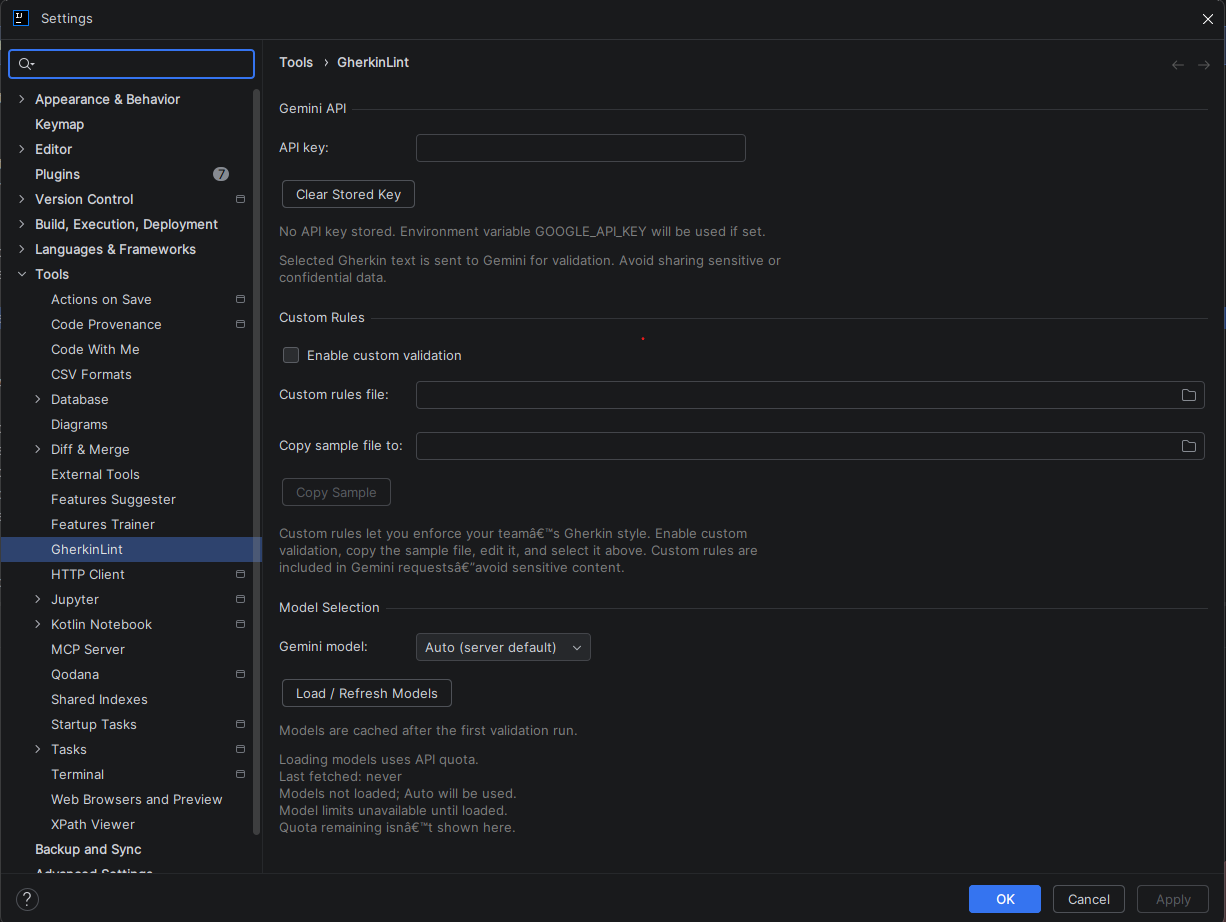
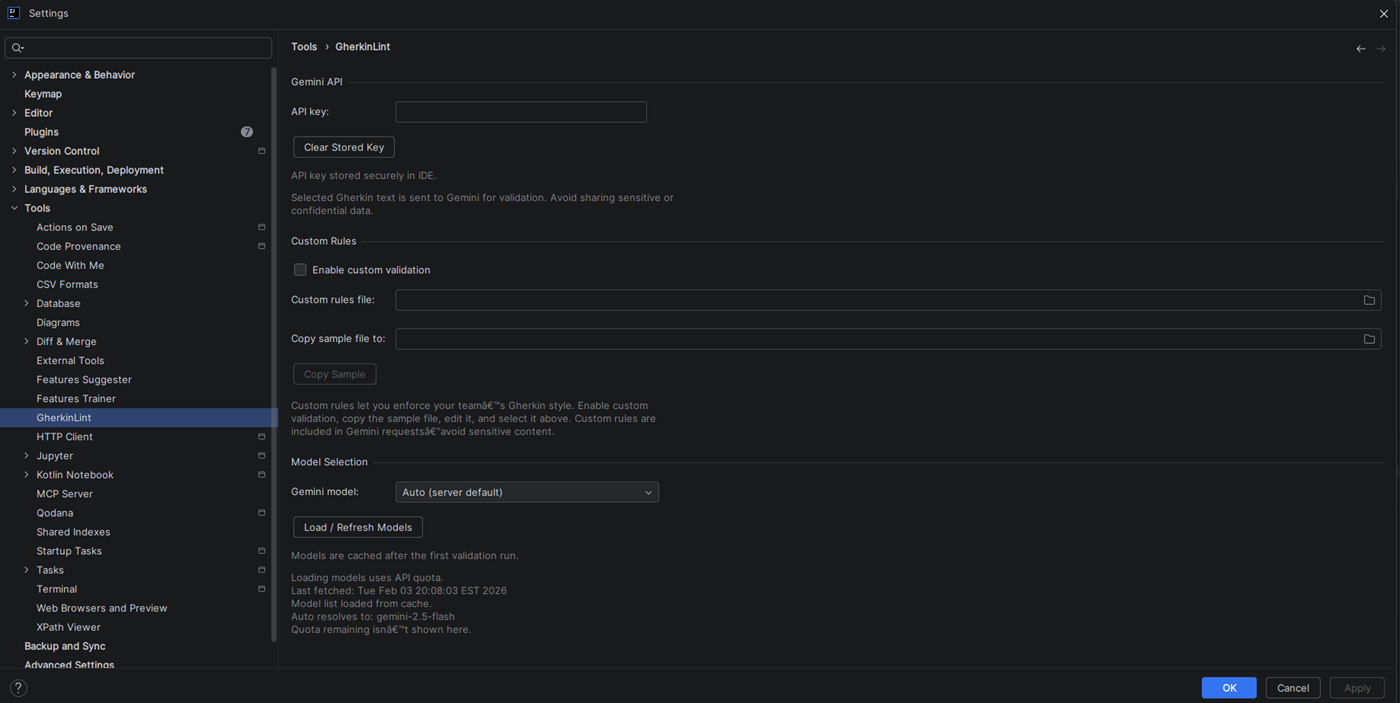
docs(readme): polish marketplace copy and usage guidance
- Expand feature keywords for search (BDD/Gherkin/Cucumber/JBehave/Gemini)
  - Clarify requirements and quick‑start steps
  - Add API key precedence, model cost, custom rules guidance, and privacy note
  - Add Gemini API key link and update support to refer to vendor contact
  - Move dev/contrib/license sections outside plugin description block

diff --git a/README.md b/README.md
@@ -1,7 +1,7 @@
 <!-- Plugin description -->
 # GherkinLint
 
-Write consistent, review-ready BDD Gherkin with a single click. GherkinLint validates selected text against clear, team-aligned rules and returns targeted suggestions so scenarios stay uniform across authors.
+Write consistent, review‑ready BDD Gherkin with a single click. GherkinLint validates selected steps in feature files and story files (Cucumber, JBehave), flags syntax/style issues, and suggests fixes so scenarios stay uniform across teams. Powered by Gemini AI for fast, reliable Gherkin linting and BDD validation.
 
 ## Screenshots
 ![Selection](docs/assets/selection.png)
@@ -9,36 +9,51 @@ Write consistent, review-ready BDD Gherkin with a single click. GherkinLint vali
 ![Settings](docs/assets/settings.png)
 
 ## Key Features
-- Validate selected Gherkin (Scenario/Given/When/Then/And/But) inside the editor
-- Consistent style checks with actionable corrections
-- Optional custom rules file for team-specific guidance
+- In‑editor validation for Gherkin steps (Scenario/Given/When/Then/And/But) in feature/story files
+- BDD style linting for Cucumber and JBehave with actionable fixes
+- Gemini AI–powered suggestions for consistency and clarity
+- Optional custom rules file for team standards
 - Gemini model selection with cached model list to reduce API calls
 - Results shown in a dedicated tool window
 
 ## Requirements
 - A Gemini API key
-- IntelliJ-based IDE (2025.3+ recommended)
+- Internet access (Gemini API calls)
+- IntelliJ-based IDE (2022.3+; 2025.3 recommended)
 
 ## Quick Start
 1. Open **Settings | Tools | GherkinLint** and add your Gemini API key.
 2. (Optional) Load models and choose a preferred model.
-3. Select Gherkin text in a feature/story file.
-4. Run **Validate Gherkin** from the editor action menu.
+3. Select Gherkin text in a `.feature` or `.story` file.
+4. Right‑click → **Validate Gherkin**.
+5. View results in the **GherkinLint** tool window.
 
 ## API Key Handling
 - Stored securely in the IDE Password Safe.
 - If not set, the plugin can read `GOOGLE_API_KEY` from your environment.
+- If both are set, the IDE‑stored key is used first.
 - You can clear the stored key at any time from settings.
 
+## Get a Gemini API key
+Create a free key in Google AI Studio:
+```
+https://aistudio.google.com/api-keys
+```
+
 ## Model Usage and Cost
-- Listing models and validation calls consume Gemini API quota.
+- Listing models and each validation call consume Gemini API quota.
 - The model list is cached; use **Load / Refresh Models** only when needed.
+- Re‑running validation consumes additional quota.
 
 ## Custom Rules
-Enable **Custom rules** and provide a JSON file to apply your team’s validation standards. If enabled without a file, the plugin will warn and fall back to default rules.
+Enable **Custom rules** and provide a JSON file to apply your team’s validation standards. Use **Copy Sample** to generate a template, edit it, and select it above. Avoid adding unsupported keys. If enabled without a file, the plugin will warn and fall back to default rules. Custom rules are included in Gemini requests—avoid sensitive content.
 
 ## Privacy
-Do not submit sensitive data. Validation sends your selected text to the Gemini API.
+Do not submit sensitive data. Selected text (and custom rules, if enabled) are sent to the Gemini API for validation.
+
+## Support
+For support, use the vendor contact listed on the Marketplace page.
+<!-- Plugin description end -->
 
 ## Development
 See `docs/DEVELOPER_GUIDE.md` for setup, run, test, formatting, verifier, and publish steps.
@@ -48,8 +63,3 @@ See `CONTRIBUTING.md` for workflow and expectations.
 
 ## License
 Licensed under the MIT License. See `LICENSE`.
-
-## Support
-Open an issue in this repository for bugs or feature requests:
-https://github.com/vchatrola/intellij-gherkin-lint/issues
-<!-- Plugin description end -->
